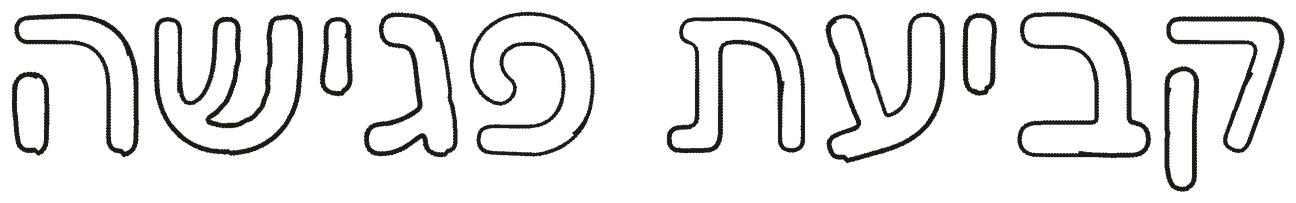
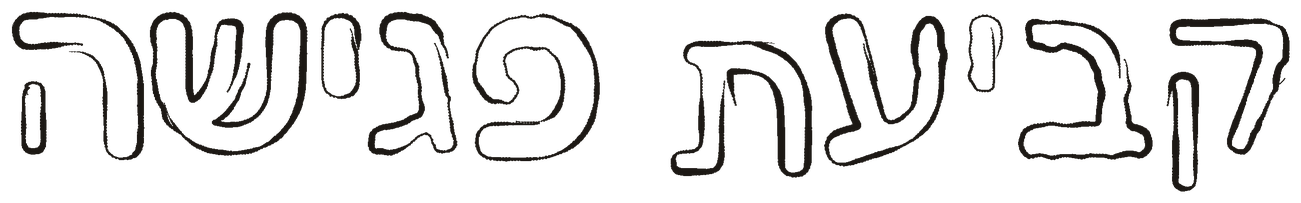
weddings: rougher hand-drawn page titles, one letter off the line in each
Claude-Session: https://claude.ai/code/session_013j5iqo2BVtAkHMQAYc8Tvk

diff --git a/weddings/feedback/index.html b/weddings/feedback/index.html
@@ -14,8 +14,8 @@
 <link rel="preconnect" href="https://fonts.gstatic.com" crossorigin>
 <link rel="stylesheet" href="https://fonts.googleapis.com/css2?family=Assistant:wght@400;600&family=Noto+Sans+Hebrew:wdth,wght@75..100,400..500&display=swap">
 <link rel="preload" href="../assets/bg-film-small.jpg" as="image">
-<link rel="preload" href="../assets/titles/feedback.webp" as="image">
-<link rel="stylesheet" href="../assets/style.css?v=17">
+<link rel="preload" href="../assets/titles/feedback.webp?v=6" as="image">
+<link rel="stylesheet" href="../assets/style.css?v=18">
 </head>
 <body>
 <div class="backdrop" aria-hidden="true"></div>
@@ -24,7 +24,7 @@
 <main class="page">
   <article class="card" id="card">
   <header class="head">
-    <h1 class="drawn-title"><img src="../assets/titles/feedback.webp?v=4" width="528" height="170" alt="משוב אחרי החתונה"></h1>
+    <h1 class="drawn-title"><img src="../assets/titles/feedback.webp?v=6" width="529" height="190" alt="משוב אחרי החתונה"></h1>
     <svg class="ornament" viewBox="0 0 100 14" aria-hidden="true"><path d="M2.0 7.9 Q3.5 10.0 4.2 10.0 Q5.0 10.1 5.8 9.0 Q6.5 7.9 7.2 7.1 Q8.0 6.3 8.8 6.2 Q9.5 6.2 10.2 7.1 Q11.0 8.0 11.8 8.9 Q12.5 9.8 13.2 9.9 Q14.0 9.9 14.8 9.0 Q15.5 8.1 16.2 7.1 Q17.0 6.0 17.8 6.1 Q18.5 6.2 19.2 7.1 Q20.0 8.0 20.8 8.9 Q21.5 9.8 22.2 9.8 Q23.0 9.9 23.8 9.0 Q24.5 8.1 25.2 7.0 Q26.0 5.8 26.8 5.9 Q27.5 6.0 28.2 7.0 L29.0 8.0 M70.0 8.2 Q71.5 10.2 72.2 10.0 Q73.0 9.8 73.8 9.0 Q74.5 8.2 75.2 7.3 Q76.0 6.3 76.8 6.1 Q77.5 6.0 78.2 7.0 Q79.0 8.0 79.8 8.8 Q80.5 9.7 81.2 9.9 Q82.0 10.1 82.8 9.1 Q83.5 8.1 84.2 7.2 Q85.0 6.3 85.8 6.3 Q86.5 6.3 87.2 7.2 Q88.0 8.1 88.8 9.1 Q89.5 10.0 90.2 10.0 Q91.0 9.9 91.8 8.9 Q92.5 7.8 93.2 7.0 Q94.0 6.1 94.8 6.0 Q95.5 5.8 96.2 6.8 L97.0 7.8 M51.0 7.7 Q50.7 8.0 50.9 8.2 Q51.2 8.3 50.9 8.7 Q50.6 9.1 50.5 9.2 Q50.4 9.4 50.5 9.5 Q50.5 9.6 50.4 9.6 Q50.3 9.7 50.0 9.5 Q49.7 9.4 49.5 9.5 Q49.2 9.6 49.0 9.4 Q48.7 9.2 48.5 9.3 Q48.3 9.3 47.9 8.9 Q47.5 8.5 47.6 8.3 Q47.6 8.2 47.5 7.7 Q47.4 7.1 47.4 6.9 Q47.5 6.7 47.8 6.3 Q48.2 5.9 48.3 5.7 Q48.4 5.4 48.8 5.2 Q49.1 5.0 49.4 4.9 Q49.7 4.8 50.5 4.7 Q51.2 4.7 51.5 4.7 Q51.9 4.8 52.3 5.2 Q52.7 5.6 53.0 5.8 Q53.4 6.1 53.6 6.6 Q53.8 7.1 54.0 7.4 Q54.3 7.8 54.0 8.5 Q53.8 9.2 53.9 9.7 Q54.0 10.2 53.6 10.7 Q53.1 11.3 52.6 11.6 Q52.1 11.8 51.6 12.2 Q51.0 12.6 50.5 12.7 Q49.9 12.7 49.4 12.9 Q48.8 13.1 48.1 12.8 Q47.3 12.6 46.8 12.3 Q46.2 11.9 45.8 11.3 Q45.4 10.6 44.9 9.9 Q44.5 9.1 44.4 8.5 Q44.3 7.9 44.3 7.2 Q44.2 6.4 44.5 5.8 Q44.7 5.2 45.1 4.6 Q45.5 4.0 46.2 3.3 Q46.9 2.7 47.6 2.4 Q48.3 2.1 49.3 1.8 Q50.2 1.5 50.9 1.6 Q51.7 1.7 52.6 1.9 Q53.6 2.1 54.3 2.7 Q55.0 3.4 55.5 3.9 Q56.1 4.3 56.4 5.3 Q56.8 6.3 57.1 7.3 L57.4 8.3" fill="none" stroke="currentColor" stroke-width="1.3" stroke-linecap="round" stroke-linejoin="round"/></svg>
     <p class="lead lines">
       <span>תודה שבחרתם בנו להיות חלק מהחתונה שלכם!</span>

diff --git a/weddings/index.html b/weddings/index.html
@@ -15,7 +15,7 @@
 <link rel="stylesheet" href="https://fonts.googleapis.com/css2?family=Assistant:wght@400;600&family=Noto+Sans+Hebrew:wdth,wght@75..100,400..500&display=swap">
 <link rel="preload" href="assets/bg-film-small.jpg" as="image">
 <link rel="preload" href="assets/title/title.webp" as="image">
-<link rel="stylesheet" href="assets/style.css?v=17">
+<link rel="stylesheet" href="assets/style.css?v=18">
 </head>
 <body class="landing">
 <div class="backdrop" aria-hidden="true"></div>
@@ -94,7 +94,7 @@
   <div class="view" id="page-gallery" data-title="גלריה" hidden>
     <section class="card page-card">
       <header class="page-head">
-        <h2 class="section-title drawn-title"><img src="assets/titles/gallery.webp?v=4" width="539" height="202" alt="גלריה"></h2>
+        <h2 class="section-title drawn-title"><img src="assets/titles/gallery.webp?v=6" width="546" height="201" alt="גלריה"></h2>
         <svg class="ornament" aria-hidden="true"><use href="#ornament"/></svg>
         <p class="section-lead">רגעים מהרחבה, מהחופות ומאחורי העמדה.</p>
       </header>
@@ -106,7 +106,7 @@
     <section class="card page-card page-card--form">
       <div class="panel-body">
         <header class="page-head">
-          <h2 class="section-title drawn-title"><img src="assets/titles/contact.webp?v=4" width="1296" height="203" alt="קביעת פגישה"></h2>
+          <h2 class="section-title drawn-title"><img src="assets/titles/contact.webp?v=6" width="1301" height="203" alt="קביעת פגישה"></h2>
           <svg class="ornament" aria-hidden="true"><use href="#ornament"/></svg>
           <p class="section-lead lines">
             <span>מתחתנים? נשמח להכיר.</span>
@@ -151,7 +151,7 @@
     <section class="card page-card page-card--form">
       <div class="panel-body">
         <header class="page-head">
-          <h2 class="section-title drawn-title"><img src="assets/titles/questionnaire.webp?v=4" width="1653" height="232" alt="שאלון למתחתנים"></h2>
+          <h2 class="section-title drawn-title"><img src="assets/titles/questionnaire.webp?v=6" width="1645" height="240" alt="שאלון למתחתנים"></h2>
           <svg class="ornament" aria-hidden="true"><use href="#ornament"/></svg>
           <p class="section-lead lines">
             <span>השאלון הזה עוזר לנו להכיר אתכם ואת המוזיקה שלכם.</span>

diff --git a/weddings/assets/style.css b/weddings/assets/style.css
@@ -342,7 +342,6 @@ textarea:focus { box-shadow: 0 0 0 3px var(--focus); }
 .landing .btn:hover { background: #452712; }
 
 /* Hand-drawn page title (feedback page) */
-.title-img { display: block; width: 82%; max-width: 340px; height: auto; margin: 0 auto; }
 .head h1 { margin-bottom: 0; }
 
 /* Thank-you text: one phrase per line, balanced when a line has to wrap */

diff --git a/weddings/README.md b/weddings/README.md
@@ -13,7 +13,7 @@ Standalone pages on the same domain, not linked from the main MEGGED site and hi
 | Background photo | `assets/bg-film.jpg` (large) and `assets/bg-film-small.jpg` (loads first), shared by both pages: a film print, softly out of focus. Grain comes from the CSS. Card paper: `assets/tex/handmade.webp` |
 | Title (landing page) | Micha's drawing `assets/title/title.webp` plus the small drawings around it `assets/title/deco.webp`. The moving pieces are cut into `assets/title/t*.webp` (letters) and `d*.webp` (drawings), positioned by `LOGO_PIECES` and `DECO_PIECES` in `assets/landing.js`. |
 | Browser tab icon | `assets/icons/` (spiral from the logo) |
-| Title (feedback page) | `assets/title-feedback.webp` (transparent) |
+| Page titles | `assets/titles/` (gallery, contact, questionnaire, feedback): black pen outlines drawn as uneven hand strokes |
 | Questions | `feedback/index.html`. If you add or rename a question, add its `name` to `COLUMNS` in `google-apps-script.js` too |
 | Where answers go | `ENDPOINT` at the top of `assets/feedback.js` and `assets/landing.js` (same script) |
 | Instagram link, sample set, gallery photos | the first block of `assets/landing.js` (`INSTAGRAM_URL`, `SAMPLE_SET`, `GALLERY`). The sample set is `assets/audio/sample-set-2026.mp3` (128 kbps). Gallery photos go in `assets/gallery/` |
